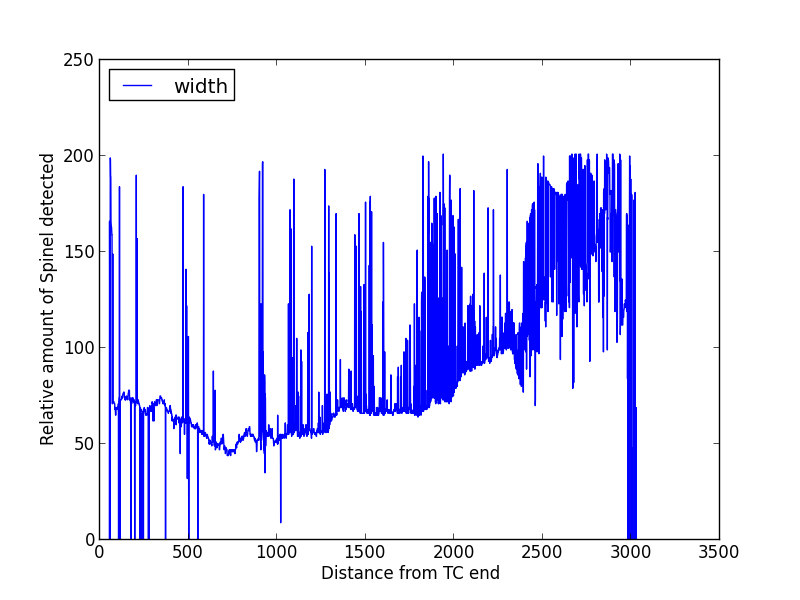
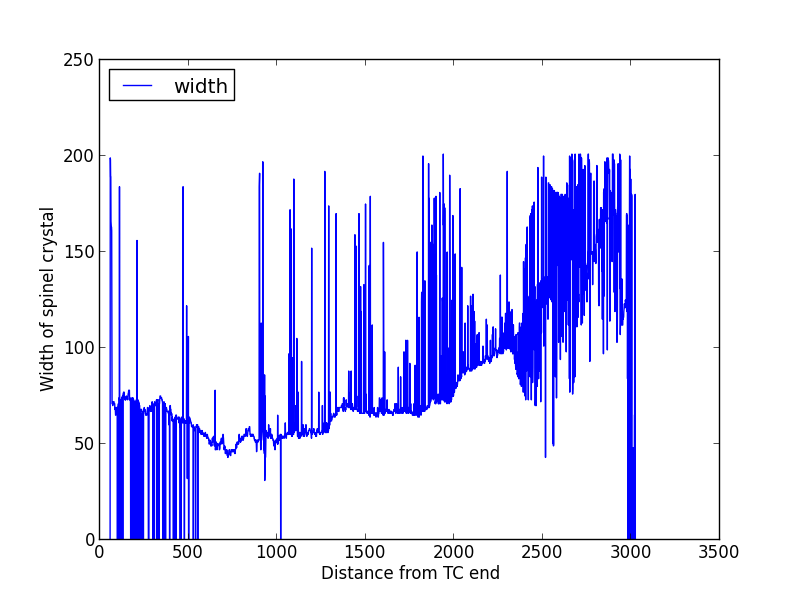
Alex edits
Alex used a slightly different method to count the pixels and fit an
equation to the resulting data. The next step will require replacing
the dummy function with the kinetics equation from Watson and Price,
and rescaling the data and function so that the results have correct
units. Almost done!

diff --git a/Image_reader.py b/Image_reader.py
@@ -6,8 +6,7 @@ import numpy as np
 import pylab as pl
 from scipy.optimize import curve_fit
 
-class F:
-  
+class F:  
   def __call__(self, x, a, b, c):
      return a * np.exp(x + b) + c
      
@@ -43,10 +42,11 @@ def data_read_2():
 def check_value():
     A = data_read()
     B = data_read_2()
-    threshold = 50 #sets a minimum intensity in each pixel (relative to the abundance of the element) to be recognized. 
+    threshold = 70 #sets a minimum intensity in each pixel (relative to the abundance of the element) to be recognized. 
+    wide = 0
     pixels = []
     width = []
-    mainthick = 40 #sets a minimum thickness for the spinel crystal to be recognized as the main spinel fragment. 
+    mainthick = 100 #sets a minimum thickness for the spinel crystal to be recognized as the main spinel fragment. 
     for i in range(len(A)):
         fragment_num = 1 #this variable keeps track of the number of recognized fragments of spinel. 
         crys_slice = [0] #this string holds ints coresponding to the horizontal position of each recognized pixel with a recognized equivalent in the opposing matrix (for the other element) in order or recognition (left to right)
@@ -55,23 +55,23 @@ def check_value():
         for j in range(len(A[i])):
             if A[i][j] > threshold and B[i][j] > threshold:
                 crys_slice.append(j)
-                print "thershold met"
+                #print "thershold met"
             else:
                 gap_slice.append(j)
-                print "threshold fails"
+                #print "threshold fails"
             if len(gap_slice) >= 5 and len(crys_slice) <= gap_thresh/4:
                 crys_slice = [0]
-                print "gap detected"
+                #print "gap detected"
                 fragment_num = fragment_num + 1
             else:
                 mainthick = len(crys_slice)
                 gap_thresh = mainthick
+            print fragment_num
         #end the string "c" if it ewncounters
-        if len(crys_slice) >= mainthick/4:
-            
+        if len(crys_slice) >= mainthick/4:           
             wide = max(crys_slice) - min(crys_slice)#this is wrong. what is the problem? 
-        else:
-            wide = 0 #what does this do?
+        #else:
+            #wide = 0 #what does this do?
         width.append((i, wide))
         pixels.append((i, len(crys_slice)))
     #print 'number of pixels is ', pixels,'                                      ', 'width is ', width
@@ -84,14 +84,23 @@ def plotter():
     width, pixels = check_value()
     a, b = zip(*width)
     c, d = zip(*pixels)
-    e = pl.plot(a, b, label = "width")
-    #f = pl.plot(c, d, label = "spinel")
+
+
     #popt, pcov = curve_fit(f.__call__, a, b)
     #g = pl.plot(a, f(a, *popt), 'k-', label = 'fit')
+    pl.figure(1)
+    e = pl.plot(a, b, label = 'width')
     pl.legend(loc='upper left')
-    pl.ylabel('Relative amount of Spinel detected')
+    pl.ylabel('Width of spinel crystal')
     pl.xlabel('Distance from TC end')
     pl.savefig('NW1_spinel')
+    pl.figure(2)
+    f = pl.plot(c, d, label = "spinel")
+    pl.legend(loc='upper left')
+    pl.ylabel('Number of spinel pixels')
+    pl.xlabel('Distance from TC end')
+    pl.savefig('NW1_spinel2')
     pl.show()
+    p.exit()
 
 plotter()
